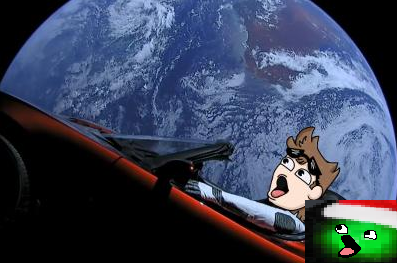
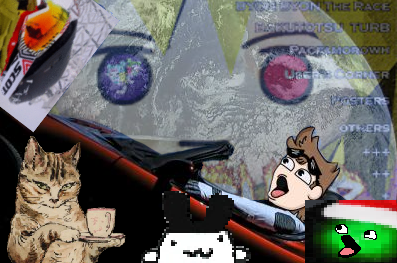
In the name of science

diff --git a/src/pages/index.js b/src/pages/index.js
@@ -1,5 +1,4 @@
 import React from "react"
-import "../stylesheets/index.css"
 import "../stylesheets/styles.css"
 //import Button from "../components/buttons"
 //import { Link } from "gatsby"
@@ -10,7 +9,7 @@ export default () => {
   const [counter, setCounter] = useState(0);
 
   return (
-    <div className="Counter">
+    <div className="App">
       <div style={{
           display: 'flex',
           justifyContent: 'center',
@@ -19,8 +18,8 @@ export default () => {
           height: '100%'
         }}>
         
-        <h1>I am centered</h1>
-
+        <h1> I am centered </h1>
+        
         <p>
           {counter}
         </p>
@@ -29,17 +28,8 @@ export default () => {
             setCounter(counter + 1)
         }}>Click me!</button>
       </div>
+
+      <div class="footer">this is my BANGER footer</div>
     </div>
   );
 }
-
-// export default function Home() {
-//   return (
-//     <div style={{ color: `purple` }}>
-//       <Link to="/contact/">Contact</Link>
-//       <h1>Hello Gatsby!</h1>
-//       <p>What a world.</p>
-//       <img src="https://source.unsplash.com/random/400x200" alt="" />
-//     </div>
-//   )
-// }

diff --git a/src/stylesheets/styles.css b/src/stylesheets/styles.css
@@ -11,7 +11,28 @@
 	cursor: pointer;
 } */
 
+body {
+	background-image: url(../images/bg.png);
+	background-repeat: repeat;
+    background-attachment: fixed;
+	background-size: 25%;
+}
+
+.footer {
+	position: fixed;
+	right: 0;
+    left: 0;
+    bottom: 0;
+	width: 100%;
+	height: 10%;
+    background-color: red;
+	color: white;
+	font-size: large;
+	text-align: center;
+}
+
 .sexy-button {
+	display: flex;
 	font-size: 16px;
 	color: #000000;
 	margin: 4px 2px;
